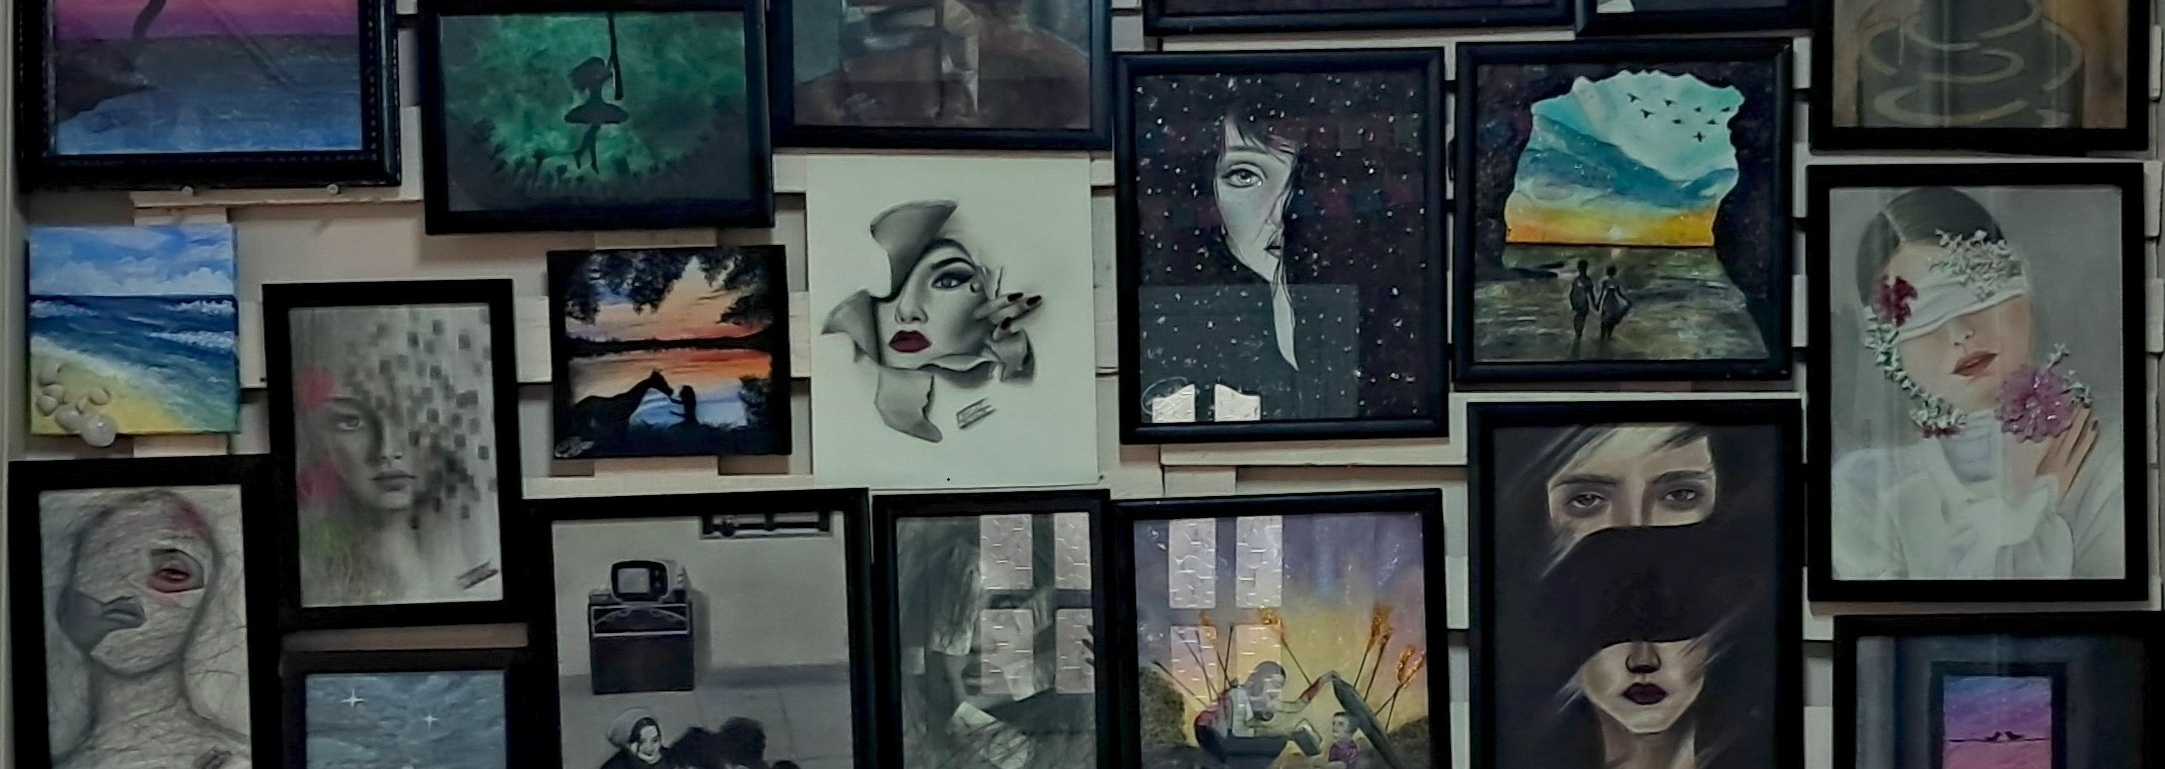
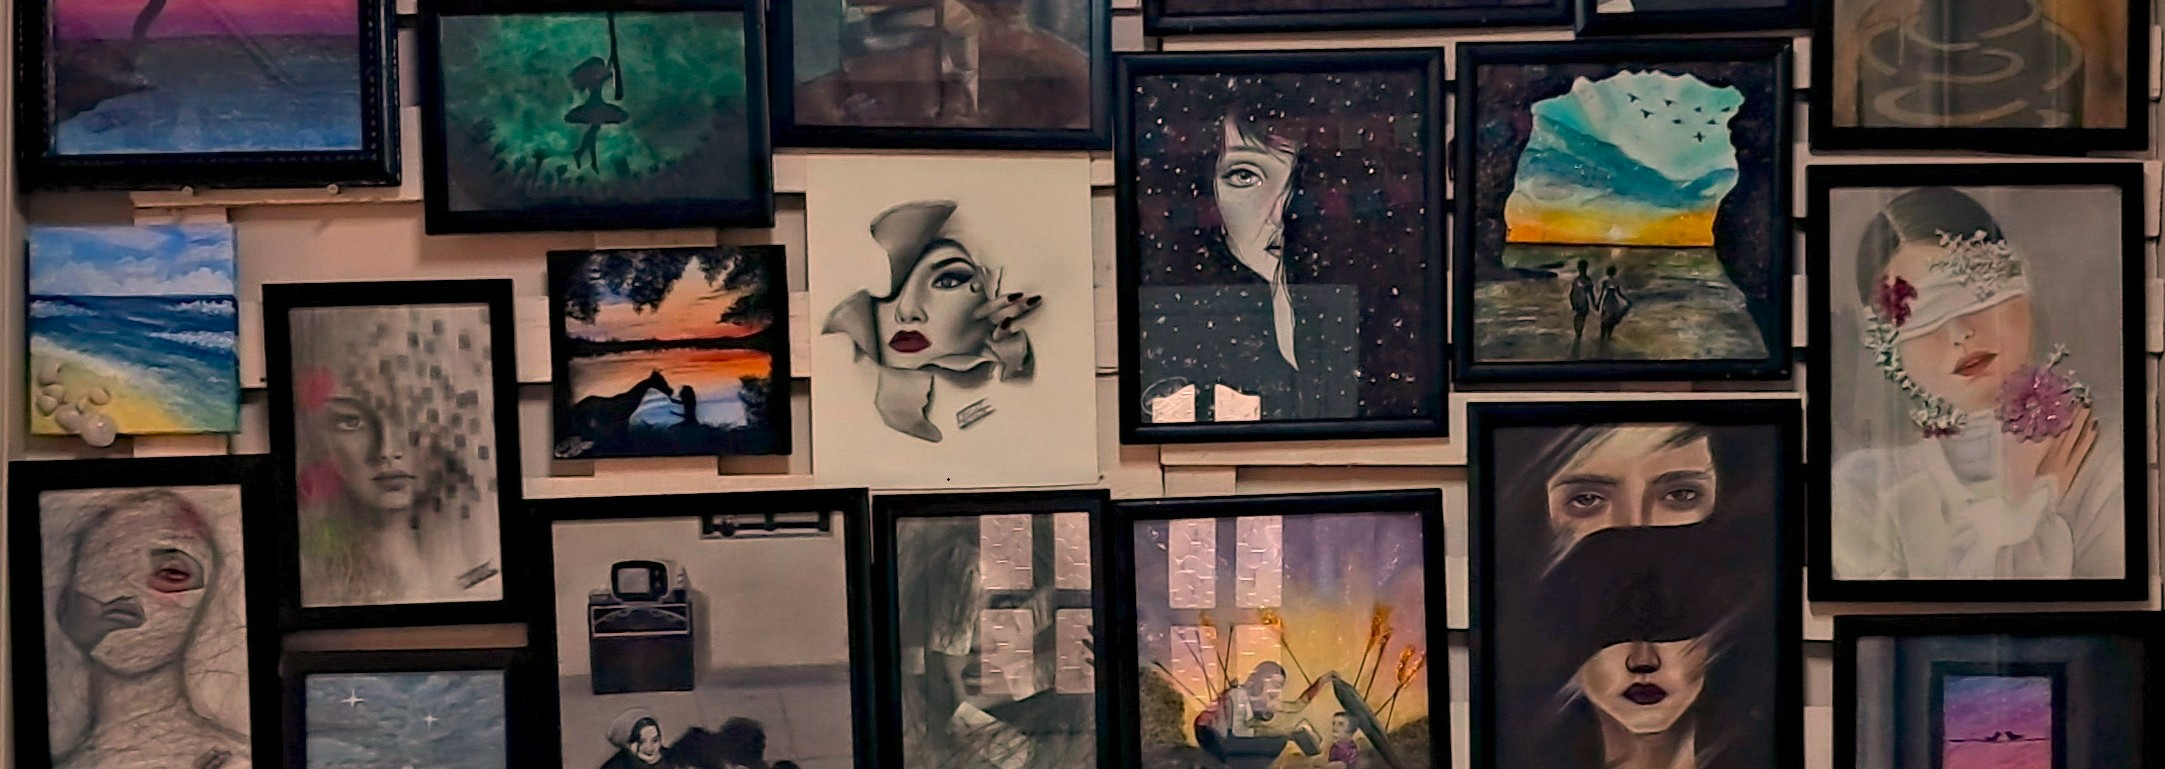
footer added

diff --git a/css/byteShadow.css b/css/byteShadow.css
@@ -392,7 +392,7 @@ ul{
 
 /* Start Gallery  */
 .gallery {
-    padding-bottom: var(--section-padding);
+    padding-bottom: calc(var(--section-padding) + 60px);
     padding-top: var(--section-padding);
     position: relative;
     background-color: var(--transparent-color);
@@ -519,6 +519,26 @@ ul{
     right: 15px;
     color: var(--main-color);
     animation: moving-arrow 0.6s linear infinite;
+}
+.gallery .container .more{
+    position: absolute;
+    bottom: 50px;
+    right: 50%;
+    transform: translateX(50%);
+    text-decoration: none;
+    font-size: 22px;
+    /* font-weight: bold; */
+    color: var(--strong-color);
+    background-color: var(--transparent-color);
+    padding: 12px 20px;
+    
+}
+.gallery .container .more:hover{
+
+    background-color: var(--strong-color);
+    color: var(--main-color);
+    box-shadow: 0 12px 20px rgba(87, 56, 70, .35);
+
 }
 /* End Gallery */
 